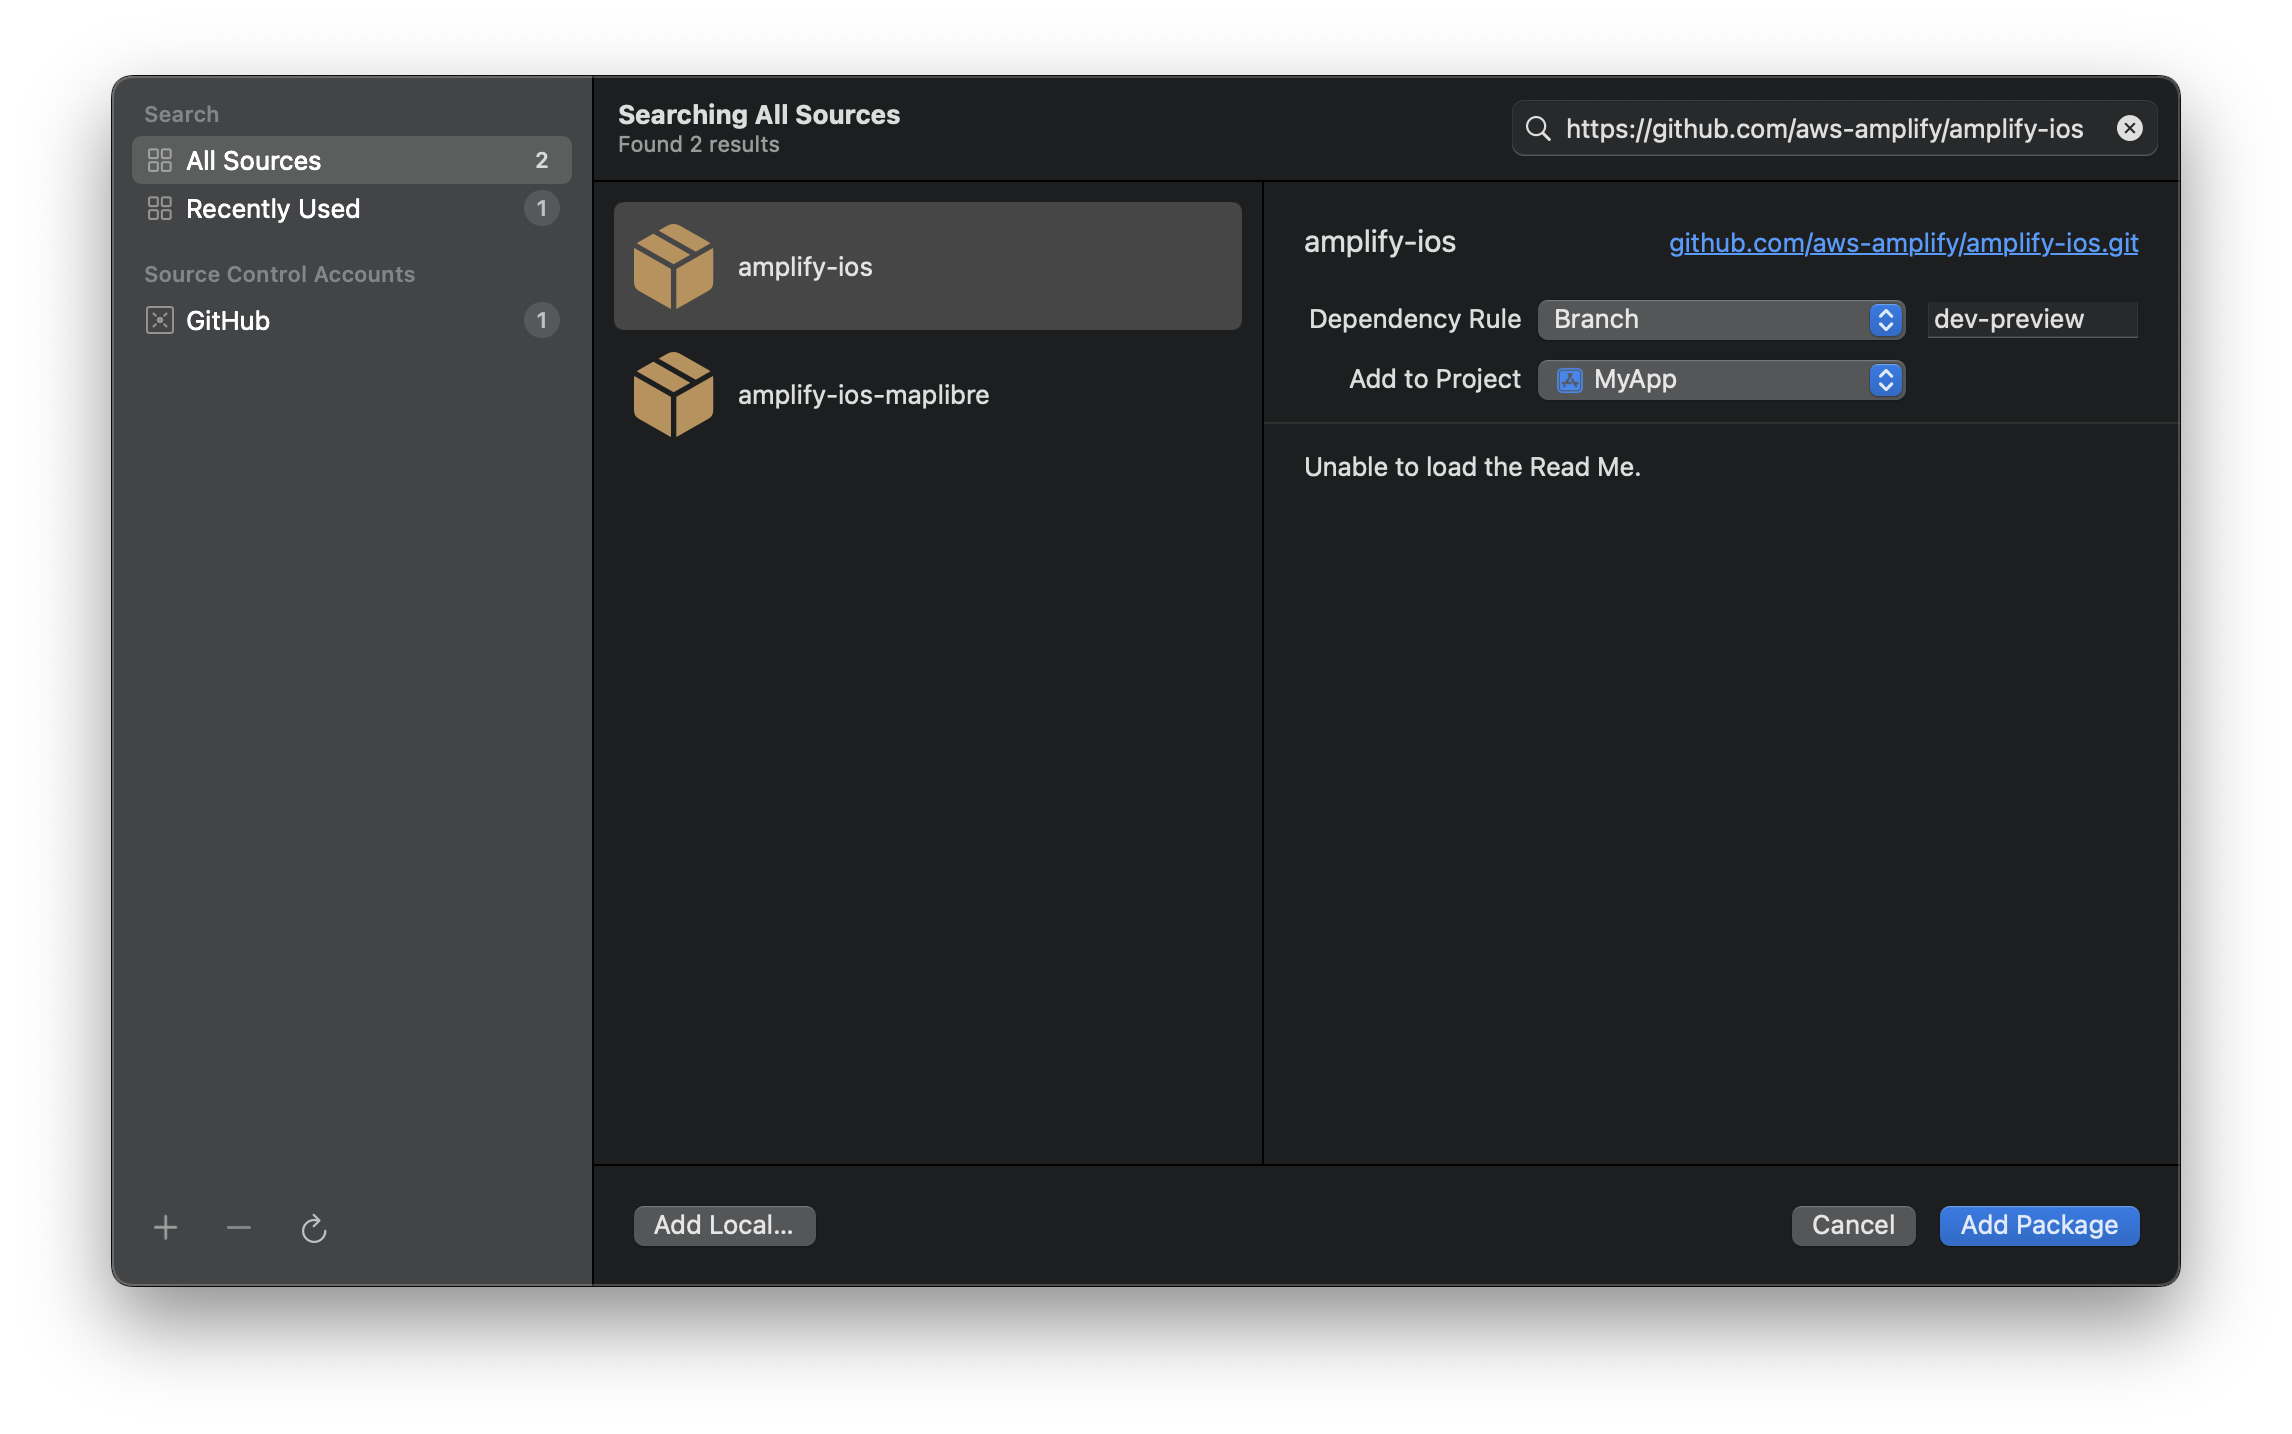
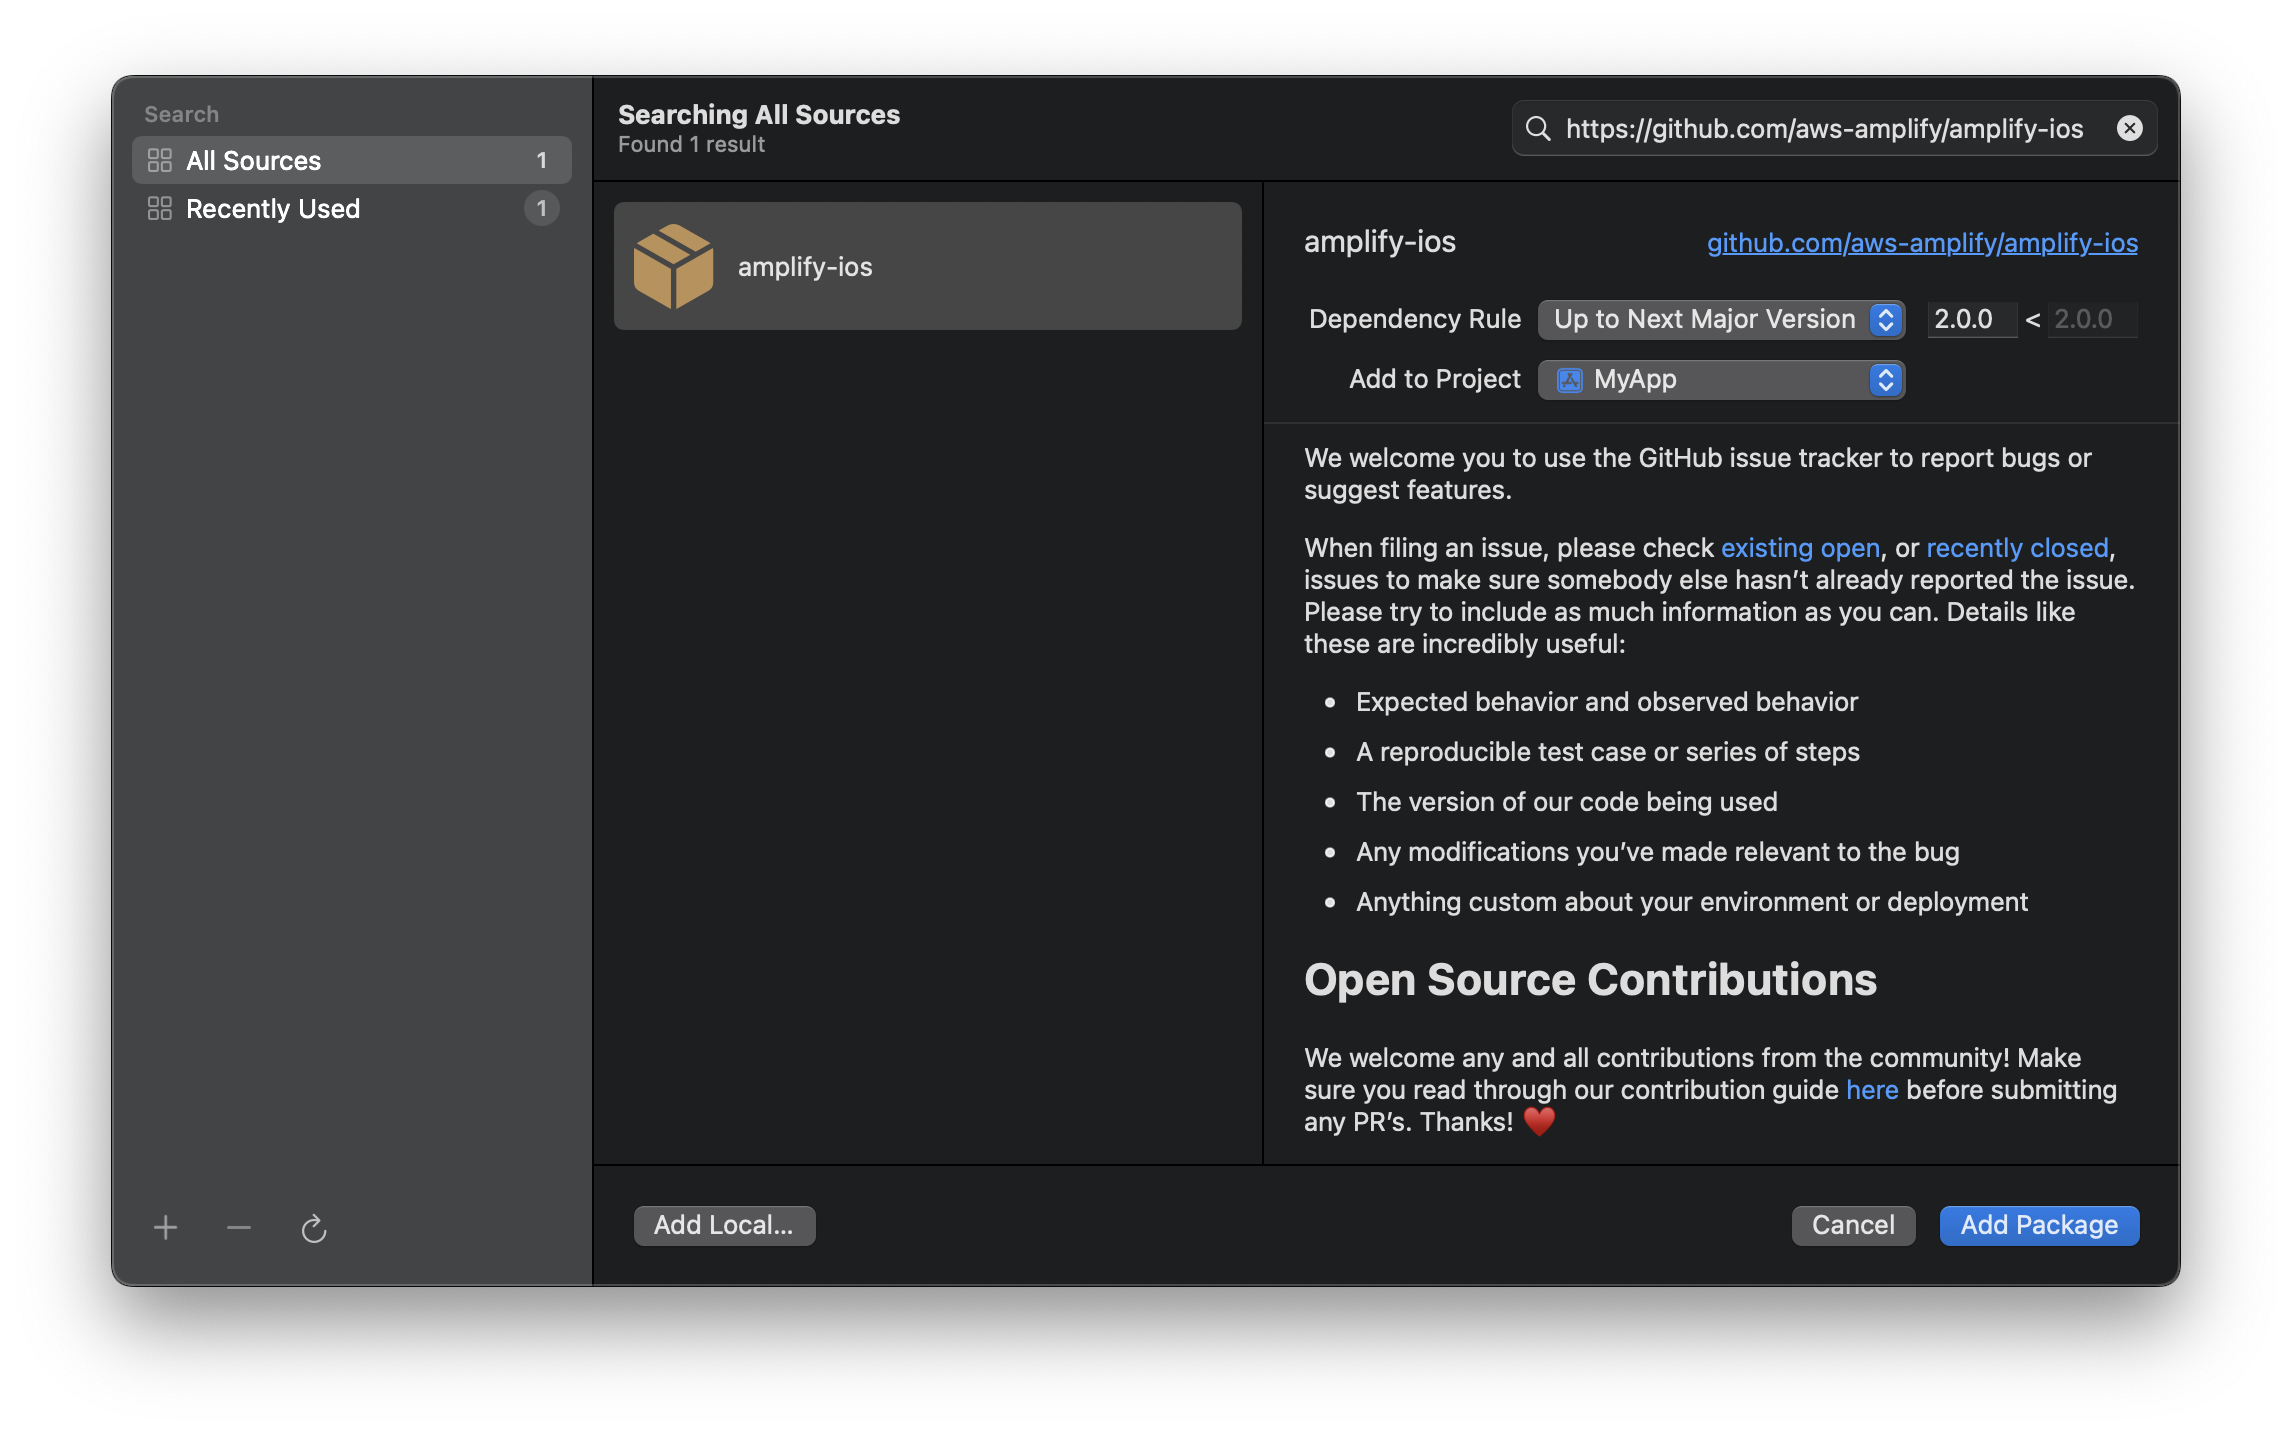
chore: update readme (#2392)

diff --git a/README.md b/README.md
@@ -3,9 +3,7 @@
 
 AWS Amplify provides a declarative and easy-to-use interface across different categories of cloud operations. Our default implementation works with Amazon Web Services (AWS), but AWS Amplify is designed to be open and pluggable for any custom backend or service.
 
-The Developer Preview of the Amplify iOS Library is now exclusively using Swift and provides developers the ability to add cloud-based Auth, Storage, Data, and APIs to their apps. With this version, Swift developers will be able to debug and contribute to the underlying open-source codebase completely in Swift. We plan to incrementally add more Amplify features including Swift-based language features like structured concurrency.
-
-This developer preview version of Amplify iOS is layered on the [AWS SDK for Swift](https://aws.amazon.com/sdk-for-swift/), which was released as Developer Preview last year. This allows for access to the AWS SDK for Swift for a breadth of service-centric APIs.
+The Amplify Library for Swift is layered on the [AWS SDK for Swift](https://aws.amazon.com/sdk-for-swift/), which was released as Developer Preview last year. This allows for access to the AWS SDK for Swift for a breadth of service-centric APIs.
 
 You can also quickly get started by using our [Photo Sharing Sample App](https://github.com/aws-amplify/amplify-ios-samples/tree/dev-preview).
 
@@ -68,9 +66,9 @@ Amplify requires Xcode 13.4 or higher to build.
 
     ![Add package dependency](readme-images/spm-setup-01-add-package.png)
 
-1. Enter the Amplify iOS GitHub repo URL (`https://github.com/aws-amplify/amplify-ios`) into the search bar.
+1. Enter the Amplify Library for Swift GitHub repo URL (`https://github.com/aws-amplify/amplify-ios`) into the search bar.
 
-1. You'll see the Amplify iOS repository rules for which version of Amplify you want Swift Package Manager to install. Choose **Branch** for the Dependency Rule and enter `dev-preview` as the branch name, then click **Add Package**.
+1. You'll see the Amplify Library for Swift repository rules for which version of Amplify you want Swift Package Manager to install. Choose **Up to Next Major Version** for the Dependency Rule, then click **Add Package**.
 
     ![Dependency version options](readme-images/spm-setup-02-amplify-repo-options.png)
 
